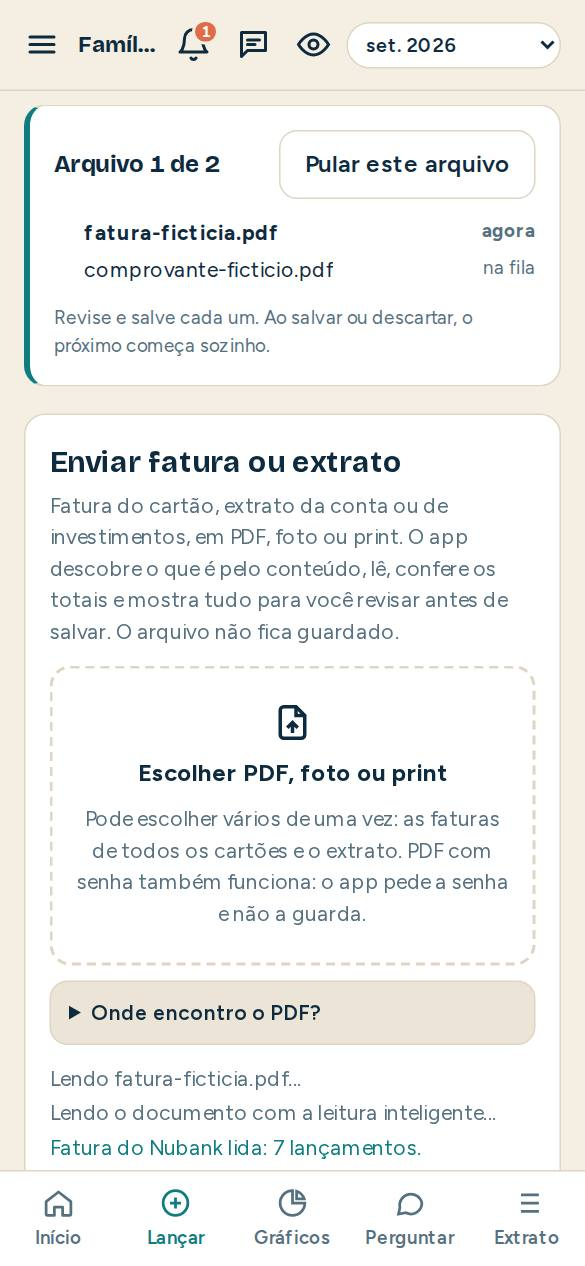
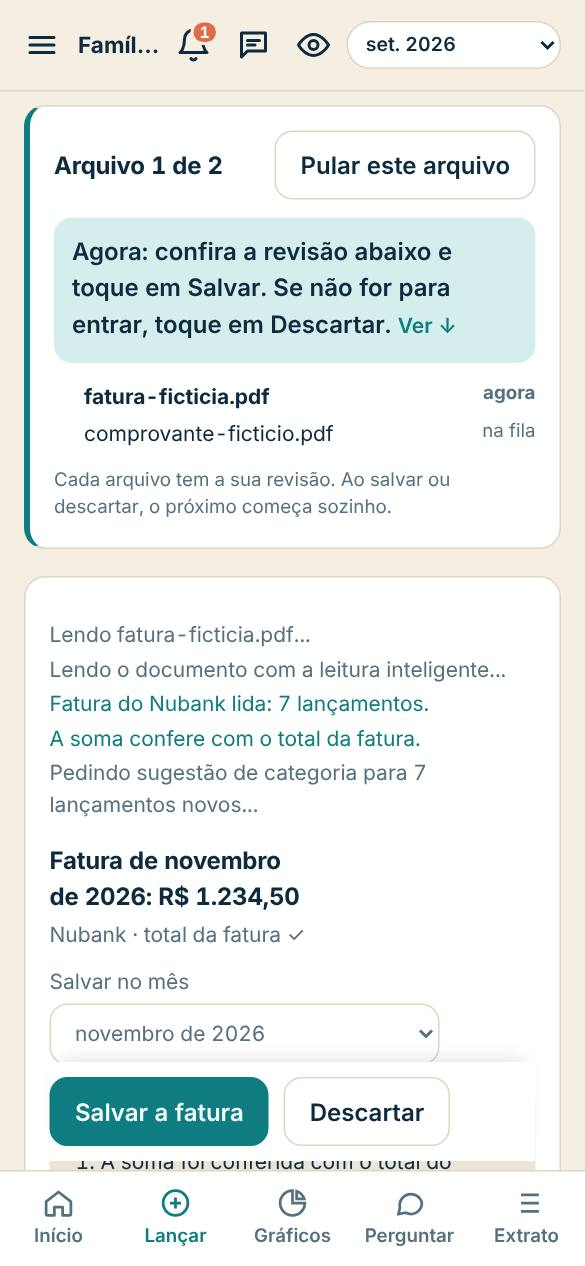
v75: several files: what to do now, why a file failed, retry, review guide and sticky save
Claude-Session: https://claude.ai/code/session_01HTxyDPPEQrF1SknoQ9axHM

diff --git a/public/js/views/lancar.js b/public/js/views/lancar.js
@@ -13,7 +13,7 @@ import { receiptPrompt, normalizeReceipt, splitByCategory, findMatches } from '.
 import { classifyText, aiKind, KIND_LABEL, KIND_RULES } from '../lib/classify.js';
 import { docKeys, compareStatement, docsText } from '../lib/statements.js';
 import { applyMemos } from '../lib/memo.js';
-import { makeQueue, advance, isDone, position, queueSummary, STATUS_LABEL, QUEUE_MAX, progressOf } from '../lib/queue.js';
+import { makeQueue, advance, isDone, position, queueSummary, STATUS_LABEL, QUEUE_MAX, progressOf, nowHint, failedIndexes } from '../lib/queue.js';
 
 const EXAMPLES = ['gastei 230 no mercado hoje no cartão', 'paguei 350 de terapia por pix', 'recebi 1.950 de reembolso do plano de saúde', 'almoço de 180 no cartão ontem'];
 let Q = null;          // quick-entry preview items
@@ -206,25 +206,45 @@ const waiting = () => ['#review', '#pwBox', '#qPreview', '#rcReview'].some(s => 
 async function runCurrent() {
   renderQueue();
   const f = QFILES[QU.i];
+  $('#toast').hidden = true; $('#pdfLog').innerHTML = ''; $('#rcLog').innerHTML = '';
   await withBusy(`Lendo ${f.name}...`, () => routeFile(f, 'fila'), resultArea, `Arquivo ${position(QU)}`).catch(err => plog('Não consegui ler este arquivo (' + (err?.message || err) + ').', 'var(--bad)'));
-  if (QU && !isDone(QU) && QFILES[QU.i] === f && !waiting()) docDone('erro');
+  if (QU && !isDone(QU) && QFILES[QU.i] === f && !waiting()) docDone('erro', failReason());
+  else renderQueue();
 }
+// Why the file could not be read: the last problem the reading wrote, or the message it showed.
+function failReason() {
+  const lines = [...document.querySelectorAll('#pdfLog div, #rcLog div')].filter(d => /--(bad|warn)/.test(d.style.color)).map(d => d.textContent.trim());
+  const t = !$('#toast').hidden ? ($('#toast .tt > span')?.textContent || '').trim() : '';
+  return (lines.pop() || t || 'Não reconheci o documento.').replace(/\s+/g, ' ').slice(0, 140);
+}
+// What the person has to do now, from what is on screen.
+const nowWhat = () => !$('#review').hidden ? 'revisao' : !$('#pwBox').hidden ? 'senha' : $('#pdfLog .chips') ? 'escolher' : !$('#qPreview').hidden ? 'lancamento' : !$('#rcReview').hidden ? 'nota' : '';
+const nowTarget = { revisao: '#review', senha: '#pwBox', escolher: '#pdfLog', lancamento: '#qPreview', nota: '#rcReview' };
 // Called when the current document was saved, discarded or could not be read. Does nothing outside a queue.
 function docDone(status, label = '') {
   if (!QU || isDone(QU)) return;
+  const name = QU.items[QU.i]?.name;
   advance(QU, status, label);
   ['#review', '#pwBox', '#qPreview', '#rcReview'].forEach(s => { if ($(s)) $(s).hidden = true; });
+  if (status === 'erro' && !isDone(QU)) toast(`${name} não deu para ler. Seguindo para o próximo; no fim dá para tentar de novo.`, 'info');
   if (isDone(QU)) { renderQueue(); toast(queueSummary(QU).head.replace(/^Pronto:\s*/, 'Arquivos lidos: ')); $('#qBar').scrollIntoView({ behavior: 'smooth', block: 'start' }); return; }
   setTimeout(runCurrent, 400);
 }
 function renderQueue() {
   const bar = $('#qBar'); if (!bar) return;
+  // While files are being read and reviewed, the upload area steps aside so the review sits right below.
+  document.querySelector('#v-lancar [data-panel="pdf"]')?.classList.toggle('inqueue', !!QU && !isDone(QU));
   if (!QU) { bar.hidden = true; return; }
   const done = isDone(QU), s = queueSummary(QU);
   bar.hidden = false;
+  const what = done ? '' : nowWhat(), failed = done ? failedIndexes(QU) : [];
   bar.innerHTML = `<div class="qbar-h"><h3>${done ? esc(s.head) : `Arquivo ${position(QU)}`}</h3>${done ? '<button class="btn" type="button" id="quClose">Fechar</button>' : '<button class="btn" type="button" id="quSkip">Pular este arquivo</button>'}</div>
-    <ol class="qlist small">${s.lines.map((x, i) => `<li class="q-${x.status}${!done && i === QU.i ? ' now' : ''}"><span>${esc(x.name)}</span><span class="tiny muted">${esc(x.label || STATUS_LABEL[x.status])}</span></li>`).join('')}</ol>
-    ${done ? '' : '<p class="tiny muted">Revise e salve cada um. Ao salvar ou descartar, o próximo começa sozinho.</p>'}`;
+    ${what ? `<p class="qnow">${esc(nowHint(what))} <button class="linkbtn small" type="button" id="quGo">Ver ↓</button></p>` : ''}
+    <ol class="qlist small">${s.lines.map((x, i) => `<li class="q-${x.status}${!done && i === QU.i ? ' now' : ''}"><span>${esc(x.name)}</span><span class="tiny ${x.status === 'erro' ? 'qerr' : 'muted'}">${esc(x.status === 'erro' ? 'Não deu para ler' + (x.label ? ': ' + x.label : '') : x.label || STATUS_LABEL[x.status])}</span></li>`).join('')}</ol>
+    ${failed.length ? `<p class="small">Tente de novo. Se continuar sem ler, mande um print ou uma foto da fatura: o app lê imagens também.</p><div><button class="btn primary" type="button" id="quRetry">Tentar de novo ${failed.length > 1 ? `os ${failed.length} que falharam` : `o que falhou`}</button></div>` : ''}
+    ${done ? '' : '<p class="tiny muted">Cada arquivo tem a sua revisão. Ao salvar ou descartar, o próximo começa sozinho.</p>'}`;
+  if (what) $('#quGo').onclick = () => $(nowTarget[what])?.scrollIntoView({ behavior: 'smooth', block: 'start' });
+  if (failed.length) $('#quRetry').onclick = () => { const fs = failed.map(i => QFILES[i]); QU = null; QFILES = []; $('#pdfLog').innerHTML = ''; startFiles(fs, 'pdf'); };
   if (done) $('#quClose').onclick = () => { QU = null; QFILES = []; renderQueue(); $('#pdfLog').innerHTML = ''; };
   else $('#quSkip').onclick = () => { R = null; Q = null; RC = null; $('#pdfLog').innerHTML = ''; docDone('pulado'); };
 }
@@ -563,10 +583,14 @@ function renderReview() {
   ${info.ok === false ? `<p class="banner no" style="margin-top:10px">A soma não bateu com o total do documento. Confira os valores com a fatura ou o extrato antes de salvar; se faltar algum lançamento, você pode lançar à mão depois.</p>` : ''}
   ${exist ? `<p class="banner at" style="margin-top:10px">${source === 'cartao' ? 'Esta fatura' : 'Este extrato'}${thisDoc ? ` (${esc(thisDoc)})` : ''} já foi ${source === 'cartao' ? 'enviada' : 'enviado'} para ${mLong(R.month)}. Salvar troca ${source === 'cartao' ? 'a anterior' : 'o anterior'} por ${source === 'cartao' ? 'esta' : 'este'}${otherDocs ? `; ${esc(otherDocs)} continua como está` : ''}.</p>` : ''}
   ${cmp.mode === 'alongside' ? `<p class="banner ok" style="margin-top:10px">${Month} já tem ${esc(otherDocs || docsText(source, ['']))}. ${source === 'cartao' ? 'Esta fatura é de outro cartão' : 'Este extrato é de outra conta'}${thisDoc ? ` (${esc(thisDoc)})` : ''} e entra junto, sem apagar nada.</p>` : ''}
+  <div class="rvguide"><strong>${QU && !isDone(QU) ? `Arquivo ${position(QU)}: o que fazer` : 'O que fazer'}</strong><ol class="small">
+    <li>${info.ok === false ? 'A soma não bateu: confira os valores com o documento.' : 'A soma foi conferida com o total do documento.'}</li>
+    <li>${rows.filter(r => r.pending).length ? `Toque na categoria dos <strong>${rows.filter(r => r.pending).length} marcados "a classificar"</strong> (no topo da lista) e escolha a certa. O app aprende.` : 'Todas as categorias já estão escolhidas. Se quiser trocar alguma, toque nela.'}</li>
+    <li>Toque em <strong>Salvar</strong>${QU && !isDone(QU) && QU.i < QU.items.length - 1 ? '. O próximo arquivo começa sozinho' : ''}.</li></ol></div>
   <p class="small" style="margin-top:10px"><span class="pill at">${rows.filter(r => r.pending).length} a classificar</span> <span class="tiny muted">Toque na categoria para trocar. O app aprende.</span></p>
   <div class="tw" style="margin-top:8px;max-height:520px;overflow:auto"><table class="rvcards"><thead><tr><th>Data</th><th>Descrição</th><th>Categoria</th><th class="r">Valor</th></tr></thead><tbody id="rvRows"></tbody></table></div>
   <div id="rvPend" style="margin-top:12px"></div>
-  <div class="rowbtn" style="margin-top:12px"><button class="btn primary" id="rvSave" type="button">Salvar</button><button class="btn" id="rvCancel" type="button">Descartar</button></div>`;
+  <div class="rowbtn rvactions" style="margin-top:12px"><button class="btn primary" id="rvSave" type="button">Salvar ${source === 'cartao' ? 'a fatura' : 'o extrato'}</button><button class="btn" id="rvCancel" type="button">Descartar</button></div>`;
   const tb = $('#rvRows');
   rows.map((r, i) => [r, i]).sort((a, b) => (b[0].pending ? 1 : 0) - (a[0].pending ? 1 : 0)).forEach(([r]) => {
     const tr = document.createElement('tr'); if (r.pending) tr.className = 'pend';

diff --git a/public/css/app.css b/public/css/app.css
@@ -558,3 +558,11 @@ label.consent[hidden]{display:none}
 .bzbar span{display:block;height:100%;width:3%;border-radius:6px;background:var(--accent);transition:width .4s ease}
 .bzpct{margin:0;font-variant-numeric:tabular-nums;font-weight:600}
 @media (prefers-reduced-motion:reduce){.bzb{animation:none;opacity:1;transform:none}.bzbar span{transition:none}.busyov{animation:none}}
+.qnow{margin:0;padding:10px 12px;border-radius:12px;background:var(--accent-soft);color:var(--ink);font-weight:600}
+.qerr{color:var(--bad)}
+.rvguide{margin-top:12px;padding:12px 14px;border-radius:12px;background:var(--sunk)}
+.rvguide ol{margin:6px 0 0;padding-left:20px;display:grid;gap:4px}
+/* Save and Discard always in reach while reviewing on the phone */
+.rvactions{position:sticky;bottom:calc(70px + env(safe-area-inset-bottom,0px));z-index:3;background:var(--card);padding:10px 0;box-shadow:0 -8px 12px -8px rgba(0,0,0,.15)}
+.qlist li.q-erro{flex-direction:column;gap:2px}.qlist li.q-erro span:first-child{white-space:normal}
+[data-panel="pdf"].inqueue > h2,[data-panel="pdf"].inqueue > p.muted,[data-panel="pdf"].inqueue #drop,[data-panel="pdf"].inqueue > details.help{display:none}

diff --git a/public/sw.js b/public/sw.js
@@ -1,6 +1,6 @@
 // Service worker: caches the app shell so it opens fast and installs as an app.
 // Data and /api calls always go to the network.
-const VERSION = 'v74';
+const VERSION = 'v75';
 const SHELL = ['/', '/index.html', '/css/app.css', '/js/main.js', '/js/db.js', '/js/ai.js', '/js/ui.js', '/js/state.js', '/js/speech.js', '/js/tour.js', '/js/steps.js', '/js/onboarding.js', '/js/art.js', '/js/install.js', '/js/push.js', '/js/metrics.js', '/js/privacy.js', '/js/lib/recurring.js', '/js/lib/settle.js', '/js/photos.js', '/js/menu.js', '/js/coach.js', '/js/views/graficos.js', '/js/views/fechar.js', '/js/lib/closing.js', '/js/lib/charts.js', '/js/lib/receipt.js', '/js/lib/insights.js', '/js/lib/budget.js', '/js/lib/pricing.js', '/js/lib/faq.js', '/js/feedback.js', '/js/usage.js', '/js/lib/navlog.js', '/js/applepay.js', '/js/lib/quick.js', '/js/lib/feed.js', '/js/messages.js', '/js/lib/news.js',
   '/js/lib/format.js', '/js/lib/calc.js', '/js/lib/categorize.js', '/js/lib/parse.js', '/js/lib/validate.js',
   '/js/views/resumo.js', '/js/views/lancar.js', '/js/views/perguntar.js', '/js/views/extrato.js', '/js/views/ajustes.js',

diff --git a/public/js/lib/releases.js b/public/js/lib/releases.js
@@ -172,4 +172,7 @@ export const RELEASES = [
     'Enquanto o app lê uma fatura, um extrato ou uma nota, aparece o que ele está fazendo e quanto falta, em porcentagem.',
     'Com vários arquivos, mostra qual está sendo lido: "Arquivo 2 de 3".',
   ] } },
+  { id: 'r75', version: 'v75', at: '2026-11-04T03:00:00Z', backlog: [], semNovidade: 'Ajustes no envio de vários arquivos (o que fazer agora, motivo de quem não foi lido, tentar de novo, botões Salvar e Descartar sempre à vista); a novidade dos vários arquivos já foi contada na v72.', updateBacklog: [
+    { id: 'varios_arquivos_de_uma_vez', set: { notes: 'Escolher ou compartilhar até 10 PDFs, fotos ou prints. Pop-up de leitura com "Arquivo 2 de 3", o passo e o percentual. No topo, a fila diz o que fazer agora ("confira a revisão abaixo e toque em Salvar") e a área de envio sai da frente. A revisão tem um passo a passo curto e Salvar/Descartar sempre à vista. Arquivo que não dá para ler mostra o motivo, a fila segue sozinha e no fim há "Tentar de novo", com a dica de mandar print ou foto.' } },
+  ] },
 ];

diff --git a/public/js/lib/queue.js b/public/js/lib/queue.js
@@ -38,3 +38,16 @@ export function progressOf(text = '') {
   if (/^(Lendo|Abrindo) /i.test(t)) return 5;
   return null;
 }
+
+// What the person has to do now, in one line (shown on top of the queue).
+export function nowHint(what) {
+  return ({
+    revisao: 'Agora: confira a revisão abaixo e toque em Salvar. Se não for para entrar, toque em Descartar.',
+    senha: 'Agora: este PDF tem senha. Digite a senha abaixo e toque em Abrir.',
+    escolher: 'Agora: diga abaixo o que é este documento.',
+    lancamento: 'Agora: confira o lançamento abaixo e toque em Salvar.',
+    nota: 'Agora: confira a nota abaixo e toque em Salvar nota.',
+  })[what] || '';
+}
+// Files that could not be read, to try again at the end.
+export const failedIndexes = q => q.items.map((x, i) => x.status === 'erro' ? i : -1).filter(i => i >= 0);

diff --git a/public/js/usage.js b/public/js/usage.js
@@ -5,7 +5,7 @@ import * as db from './db.js';
 import { S } from './state.js';
 import { tapCell, tapLabel, cleanError } from './lib/navlog.js';
 
-export const APP_VERSION = 'v74';
+export const APP_VERSION = 'v75';
 const OK = /^[a-z_]{2,20}(\.[a-z_]{2,20})?$/;
 export const device = () => { const u = navigator.userAgent; return (/iphone|ipad/i.test(u) ? 'iPhone' : /android/i.test(u) ? 'Android' : /mac/i.test(u) ? 'Mac' : /windows/i.test(u) ? 'Windows' : 'Outro') + (window.matchMedia?.('(display-mode: standalone)').matches || navigator.standalone ? ' · app instalado' : ' · navegador'); };
 export const screenOf = () => S.tab === 'ajustes' ? 'menu.' + (S.sec || 'familia') : S.tab === 'resumo' ? 'inicio' : (S.tab || '');
